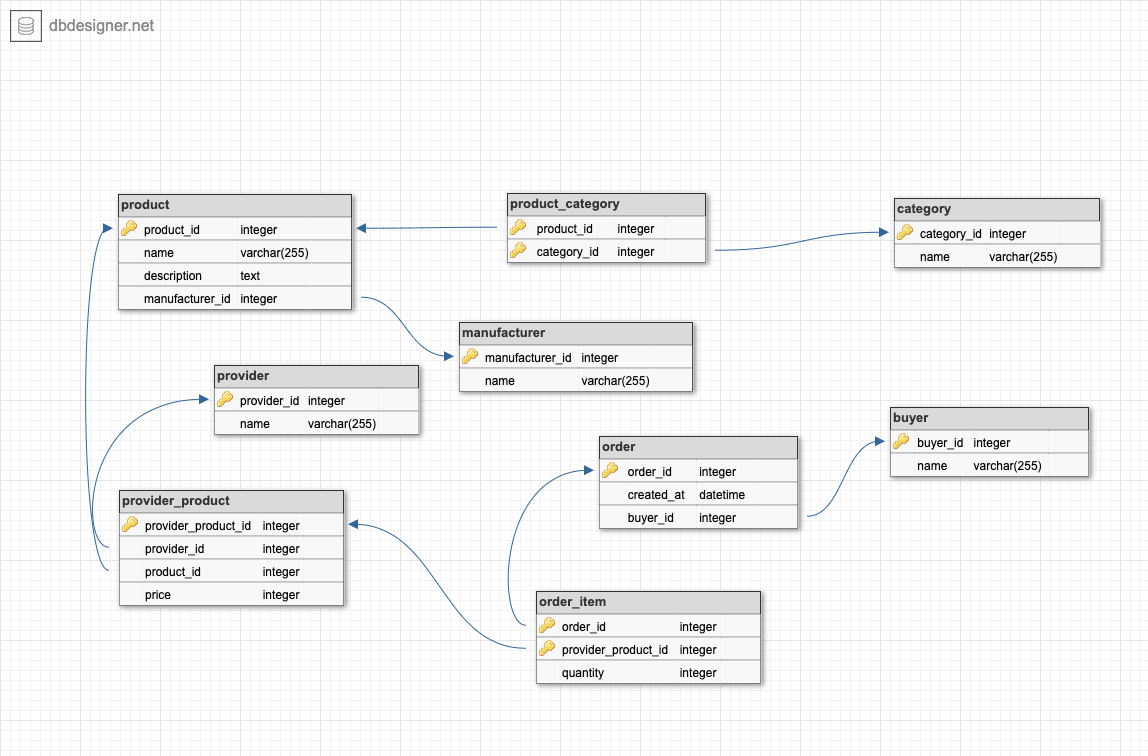
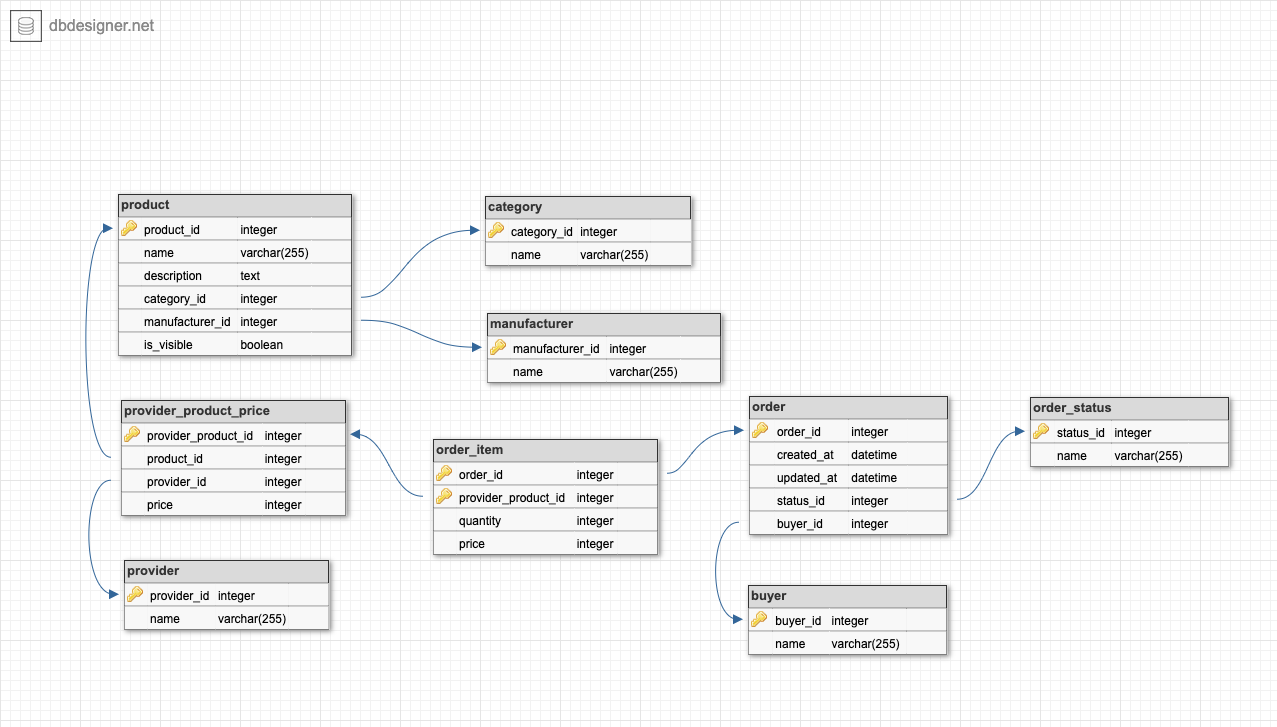
task_1 progress

diff --git a/1_task/index.md b/1_task/index.md
@@ -13,8 +13,27 @@
 * рекомендации к использованию репликации
 * рекомендации к резервному копированию
 
-### Решение
-
+### Схема
 ![Схема данных](db_schema_1.png)
 
-TODO
+### Описание
+По соответствию сущностей таблицам, думаю, все понятно по схеме.
+Хотелось бы уточнить некоторые моменты:
+- у каждого продукта свой производитель; если один и тот же продукт производят разные производители, то по схеме считается, что это разные продукты
+- колонка product.is_visible нужна для того, чтобы можно было скрывать продукт из отображаемых в интерфейсе по какой-либо причине
+- таблица provider_poduct_price содержит текущие цены поставщика на конкретный продукт. Т.к. в задании не сказно про хранение истории цен, то по схеме предполагается, что если цена меняется, то обновляется существующее поле с ценой и новые поля не добавляются
+- order_item содержит товарную единицу заказа с ценой за единицу и количество этих единиц. Цена указана на момент добавления товара в заказ, т.о. изменение цены поставщика не повлияет на цену в уже добавленный в заказ товар. Если здесь требуется более сложная бизнес-логика, пожалуйста, напишите об этом
+- колонки для цен - integer, т.е. цена указывается в "копейках". Здесь  следую известным рекомендациям по типам данных для хранения денег
+
+
+### Примеры бизнес задач
+- отобразить на сайте список продуктов с категориями и ценами
+- добавить/обновить цены поставщика
+- создать заказ, добавить в него товары
+- отобразить заказ в интерфейсе со всеми добавленными товарами, показать итоговую цену
+
+### Рекомендации к использованию репликации
+Репликация в классическом случае нужна для масштабирования операций чтения. Т.о., если нагрузка на чтение (например, для отображения списка продуктов с категориями/ценами) будет серьезной, можно использовать репликацию. Хотя, я бы в данном случае для начала попробовал использовать кеширование на уровне приложения. Также здесь можно подумать над использованием реплики для резервного копирования - об этом пишу в следющем пункте. Для остальных кейсов не вижу очевидных преимуществ от репликации
+
+### Рекомендации к резервному копированию
+Думаю, резервирование в данном случае является довольно критичным, т.к. потеря данным, например, о заказе покупателя должна быть чувствительной для бизнеса. Насчет периодичности, к сожалению, не могу ответить на вопрос - нет опыта в этом. Конечно, с одной стороны, чем чаще тем лучше. С другой - это создает дополнительную нагрузку на диск. Поэтому можно рассмотрть данный вопрос в связке с репликацией - делать резервное копирование с реплики. В таком случае, для максимальных гарантий сохранения данных лучше использовать не асинхронную репликацию, например, подумать в сторону решений вроде PerconaXtraDBClucter
